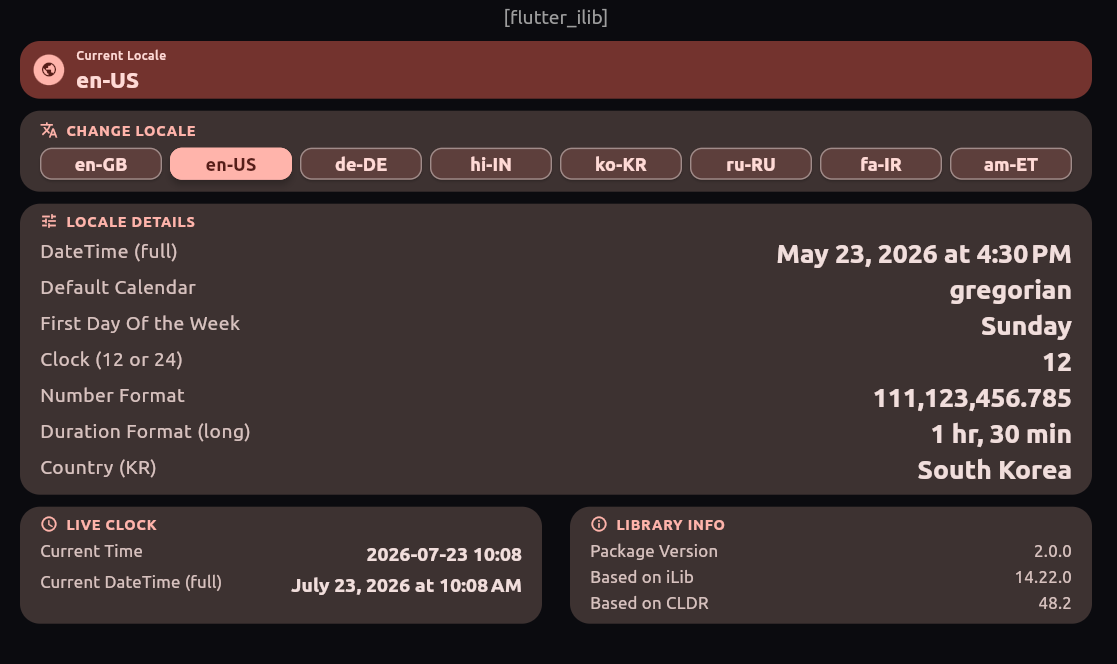
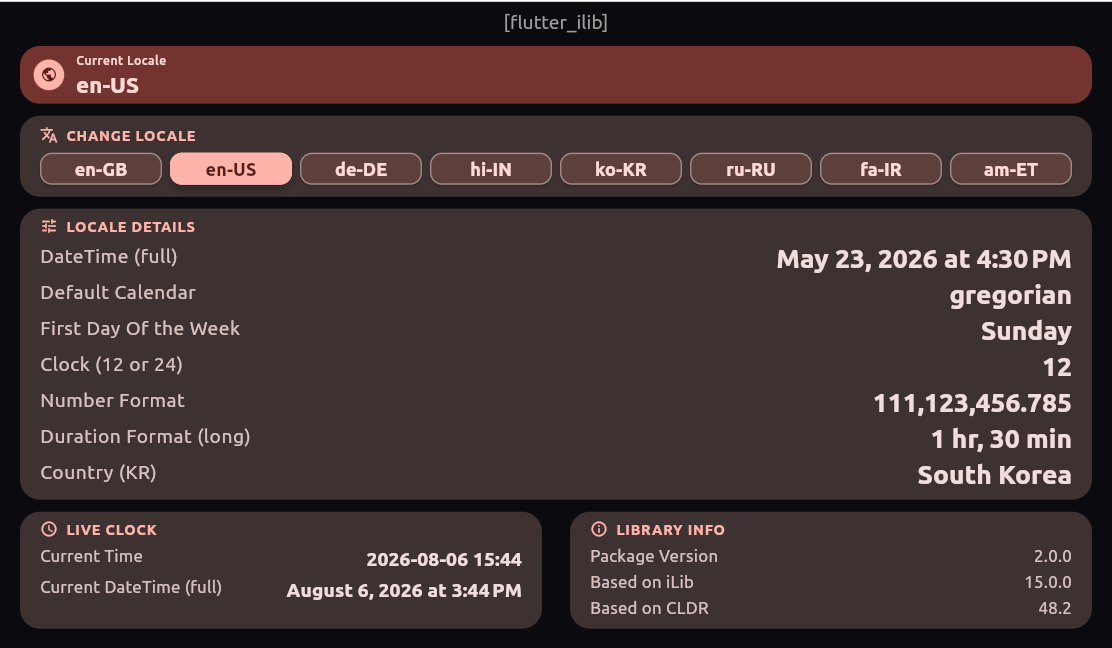
docs: update CHANGELOG for v2.0.0 and add AI agent skills
- Rewrite CHANGELOG 2.0.0 to reflect all completed pure-Dart conversions
- Update example screenshot
- Add .claude/skills/ for bump-upstream, convert-js-class, convert-js-test
- Track .claude/skills/ in git (remove from .gitignore)

Changed region(s): [[0.0, 0.0, 1.0, 0.9877]]

diff --git a/.claude/skills/bump-upstream/SKILL.md b/.claude/skills/bump-upstream/SKILL.md
@@ -1,0 +1,117 @@
+---
+name: bump-upstream
+description: >-
+  Update flutter_ilib to a newer iLib JS / CLDR upstream. Use when bumping the
+  iLib source version, the CLDR data version, or regenerating assets/locale/.
+  Regenerates the bundled locale JSON, updates every version-string touch point,
+  and re-verifies the converted tests. Triggers: "update to iLib vNN", "bump
+  CLDR", "regenerate locale data", "upgrade upstream".
+---
+
+# Bump upstream (iLib JS + CLDR)
+
+Updating flutter_ilib to a newer iLib/CLDR release. The core rule from
+[CLAUDE.md](../../../CLAUDE.md) "Source Versions": **bump the JS source and the
+generated locale data together** — a JS-only or data-only bump diverges, because
+all `lib/` code and `test/` expectations were converted from a specific iLib JS
+tag, and the bundled `assets/locale/` JSON was generated from that same tag.
+
+## Ask first
+
+Before touching anything, confirm the target versions with the user:
+
+- **iLib JS version** (npm tag / git tag, e.g. `v15.1.0`). Must be **>= 15**
+  (that is when the package started shipping `assemble.mjs`).
+- **CLDR version** it incorporates (e.g. `49`). Usually determined by the iLib
+  release, not chosen independently — confirm which CLDR the target iLib bundles.
+- **flutter_ilib package version** (pubspec semver). This is *independent* of
+  upstream — decide with the user (major/minor/patch) based on API impact.
+
+## Procedure
+
+Work in order; do not skip the diff review or the test re-verification.
+
+### 1. Regenerate the bundled locale data
+
+The committed `assets/locale/` files are **minified**, so always use
+`--compressed` to keep the diff clean. Preview first, then copy over:
+
+```bash
+cd scripts/assemble_ilib
+# Pin the target iLib version. Preview into a temp dir, do NOT touch assets/ yet.
+./generate_locale_json.sh --compressed --ilib-version <VER> --out-dir /tmp/ilib-preview
+diff -r /tmp/ilib-preview ../../assets/locale     # inspect what changed
+cp /tmp/ilib-preview/*.json ../../assets/locale/  # commit the new data
+```
+
+- Locale coverage is driven by `scripts/assemble_ilib/locales.json` — the
+  authoritative supported-locale list. Only change it if the user wants
+  different locale coverage (that is a separate decision from a version bump).
+- If a new iLib data type is needed, it comes from the `require()`/`// !data`
+  comments in `scripts/assemble_ilib/ilib-inc.js`.
+- See `scripts/assemble_ilib/README.md` for `--ilib-path` (local source tree),
+  `--dry-run`, and the full option list.
+
+### 2. Update every version-string touch point
+
+Grep first so nothing is missed:
+
+```bash
+grep -rn "15\.0\.0\|48\.2" CLAUDE.md README.md lib/flutter_ilib.dart
+```
+
+Update **all** of these (substitute the OLD iLib/CLDR numbers for the target):
+
+| Location | What to change |
+| --- | --- |
+| [CLAUDE.md](../../../CLAUDE.md) "Source Versions" | iLib JS version + CLDR version. **Single source of truth** — most docs reference it, so this is the primary edit. |
+| [README.md](../../../README.md) intro | The public version note (states iLib/CLDR independently). |
+| [CHANGELOG.md](../../../CHANGELOG.md) | **Add a NEW entry** for the new package version. Never edit existing entries — they are frozen history. |
+| [lib/flutter_ilib.dart](../../../lib/flutter_ilib.dart) | `getILibVersion` (iLib) and `getCLDRVersion` (CLDR) getters. If package version changes, also `getVersion`. |
+| [pubspec.yaml](../../../pubspec.yaml) | `version:` (package semver — independent of upstream). |
+
+CLAUDE.md's own guidance: CLAUDE.md is the single source of truth for upstream
+version numbers; the README public note and CHANGELOG entry are the two spots
+that intentionally state the version independently. `lib/flutter_ilib.dart`
+getters and `pubspec.yaml` are the code/package touch points.
+
+### 3. Re-verify the converted tests
+
+Tests were converted 1:1 from iLib JS at the old tag, so a CLDR bump will change
+some expected formatting output. Run the suite and reconcile failures against
+the **new** iLib JS expectations (see [docs/conversion-guide.md](../../../docs/conversion-guide.md)
+and [docs/test-mapping.md](../../../docs/test-mapping.md)):
+
+```bash
+./execute_unit_test.sh          # or: flutter test
+flutter analyze
+```
+
+- A test failure after a CLDR bump usually means the *expected value* legitimately
+  changed upstream — verify against the new iLib JS source at the target tag
+  (see the iLib JS source memory / CLAUDE.md for where that lives) before editing
+  an expectation.
+- Do **not** weaken assertions or add coverage the JS original lacks. Update the
+  expected value to match the new upstream, nothing more.
+
+### 4. Review and commit
+
+```bash
+git diff --stat        # expect: assets/locale/*.json + the 5 version touch points
+dart format .          # short style, page_width 80 (enforced by pre-commit hook)
+```
+
+Commit the data regeneration and the version-string updates together (they must
+move as a unit). Suggest the message; commit only when the user asks.
+
+## Checklist
+
+- [ ] Target iLib + CLDR + package versions confirmed with user
+- [ ] `assets/locale/` regenerated with `--compressed`, diff reviewed
+- [ ] CLAUDE.md "Source Versions" updated
+- [ ] README.md public version note updated
+- [ ] CHANGELOG.md — new entry added (existing entries untouched)
+- [ ] lib/flutter_ilib.dart `getILibVersion` / `getCLDRVersion` (+ `getVersion` if bumped)
+- [ ] pubspec.yaml `version:`
+- [ ] `flutter test` + `flutter analyze` pass; failures reconciled vs new iLib JS
+- [ ] `dart format .` run

diff --git a/.claude/skills/convert-js-class/SKILL.md b/.claude/skills/convert-js-class/SKILL.md
@@ -1,0 +1,53 @@
+---
+name: convert-js-class
+description: >-
+  Convert an iLib JS class to pure Dart in flutter_ilib. Use when porting a new
+  iLib class from JavaScript interop to native Dart implementation. Covers data
+  analysis, Dart implementation, test conversion, and export registration.
+  Triggers: "convert ILibXxx to Dart", "port JS class", "implement in pure Dart",
+  "remove JS interop for".
+---
+
+# Convert iLib JS class to Dart
+
+Port an iLib JavaScript class to a pure Dart implementation in flutter_ilib.
+See [docs/conversion-guide.md](../../../docs/conversion-guide.md) for the full
+pattern, before/after code templates, and detailed checklist.
+
+## Ask first
+
+Before starting, confirm with the user:
+
+- **Which JS class** to convert (e.g. `HanCal`, `AddressFmt`)
+- **JS source location**: `js/lib/` at the pinned iLib tag (CLAUDE.md › Source Versions)
+- **Which JSON data keys** it needs
+- **Whether the data already exists** in `assets/locale/` or needs regeneration
+
+## Procedure
+
+Follow this order. Details for each step are in `docs/conversion-guide.md`.
+
+1. **Data analysis** — identify JSON keys from JS source (`// !data`, `loadData`)
+2. **Dart implementation** — `ILibLoader.getLocaleData()` + `_defaultInfo` pattern
+3. **Test conversion** — from `js/test/` (locale-scope rules critical)
+4. **Register exports** — add to `lib/flutter_ilib.dart`
+5. **Verify** — `flutter test` + `flutter analyze` + `dart format .`
+6. **Update docs** — `docs/conversion-guide.md`, `docs/test-mapping.md`, `CLAUDE.md`
+
+## Critical rules (not in docs — agent-specific)
+
+- For calendar classes: read [docs/date-calendar-architecture.md](../../../docs/date-calendar-architecture.md) before implementing
+- Every test file must have `debugPrint('Testing [{filename}] file.')` in `main()`
+- Use `import 'package:flutter/foundation.dart'` (not `material.dart`) for `debugPrint`
+- Commit only when the user asks
+
+## Checklist
+
+- [ ] JS source analyzed — data keys identified
+- [ ] Required JSON data present in `assets/locale/`
+- [ ] Dart implementation complete
+- [ ] Export added to `lib/flutter_ilib.dart`
+- [ ] Tests converted (locale-scope + file separation rules followed)
+- [ ] Unconvertible tests documented in `docs/test-mapping.md`
+- [ ] `flutter test` + `flutter analyze` + `dart format .` pass
+- [ ] Docs updated (conversion-guide, test-mapping, CLAUDE.md)

diff --git a/CHANGELOG.md b/CHANGELOG.md
@@ -1,19 +1,24 @@
 ## 2.0.0
-* Remove the `flutter_js` JavaScript interop. flutter_ilib is now a pure-Dart implementation that
-  reads iLib's CLDR locale data (JSON) directly — no JavaScript runtime is required.
-* Convert to pure Dart:
+* Remove the `flutter_js` JavaScript interop entirely. flutter_ilib is now a pure-Dart
+  implementation that reads iLib's CLDR locale data (JSON) directly — no JavaScript runtime
+  (and no `flutter_js` dependency) is required.
+* Convert all public classes to pure Dart:
   * `ILibLocale`, `ILibLocaleInfo`, `ILibCaseMapper`
-  * `ILibDate` / `ILibDateFmt` — date/time formatting engine
-  * `ILibTimeZone` — timezone and DST calculation from `zoneinfo` data
+  * `ILibDateFmt` — date/time formatting engine
+  * `ILibDurationFmt` — duration formatting with CLDR plural rules
+  * `ILibNumFmt` — number and currency formatting
+  * `ILibTimeZone` — timezone and DST calculation
   * `ILibCalendar` and 9 calendars: gregorian, thaisolar, julian, islamic, hebrew, ethiopic,
     coptic, persian (astronomical), and persian-algo (algorithmic)
-  * `ILibAstro` — astronomical calculations for the Persian astronomical calendar
-* Add system `'local'` timezone support (DST-aware, sampled from the OS). An omitted timezone now
-  defaults to `'local'`, matching iLib JS; `'local'` and `'Etc/UTC'` therefore differ on a non-UTC
-  host.
-* Based on iLib v14.22.0 / CLDR 48.2.
-* **Breaking**: `ILibCountry`, `ILibScriptInfo`, and `ILibDurationFmt` are not yet
-  ported to pure Dart and are unavailable in this release; they are planned for a later 2.x.
+  * `ILibScriptInfo` — script metadata (direction, name, code)
+  * `ILibCountry` — country name/code lookup per locale
+* Add system `'local'` timezone support (DST-aware). An omitted timezone defaults to `'local'`,
+  matching iLib JS behavior.
+* Add `ILibLocale.getAvailableLocales()` API.
+* Support 144 locales with CLDR 48.2 data.
+* Add integration tests and rework test runner with unit/integration mode support.
+* Based on iLib v15.0.0 / CLDR 48.2.
+* The public API is unchanged from v1.x — upgrade without code changes.
 
 ## 1.9.0
 * Update the iLib files to version 14.22.0.

diff --git a/.claude/skills/convert-js-test/SKILL.md b/.claude/skills/convert-js-test/SKILL.md
@@ -1,0 +1,42 @@
+---
+name: convert-js-test
+description: >-
+  Convert iLib JS test cases to Dart for flutter_ilib. Use when porting test
+  files from the iLib JS source to Dart without implementing a new class.
+  Triggers: "convert JS tests", "port test file", "add tests from JS",
+  "convert testXxx.js".
+---
+
+# Convert iLib JS test to Dart
+
+Port iLib JavaScript test cases to Dart test files.
+Full rules: [docs/conversion-guide.md](../../../docs/conversion-guide.md) § Test Conversion.
+File mapping: [docs/test-mapping.md](../../../docs/test-mapping.md).
+
+## Ask first
+
+- **Which JS test file** (e.g. `js/test/testdatefmt_ar_EG.js`)
+- **Locale in scope?** — must be in `scripts/assemble_ilib/locales.json`
+
+## Procedure
+
+1. **Scope check** — locale must be in `locales.json`
+2. **Convert** — JS test functions → Dart `test()` blocks
+3. **Separate** — JS-mirrored → `*_test.dart`; Dart-only → `*_extra_test.dart`
+4. **Document** — update `docs/test-mapping.md`
+5. **Verify** — `flutter test <file>` + `flutter analyze`
+
+## Agent-specific rules
+
+- **NEVER modify expected values** — failed test = implementation bug
+- Use `import 'package:flutter/foundation.dart'` (not `material.dart`)
+- Every test `main()` starts with `debugPrint('Testing [{filename}] file.')`
+- Commit only when the user asks
+
+## Checklist
+
+- [ ] Locale in `locales.json` confirmed
+- [ ] Tests converted with expected values unchanged
+- [ ] Correct file placement and `*_extra_test.dart` separation
+- [ ] `docs/test-mapping.md` updated
+- [ ] `flutter test <file>` + `flutter analyze` pass
